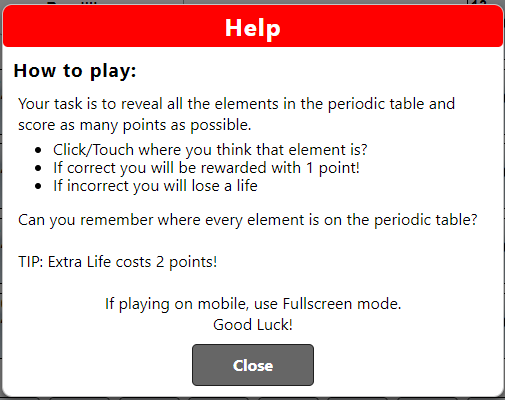
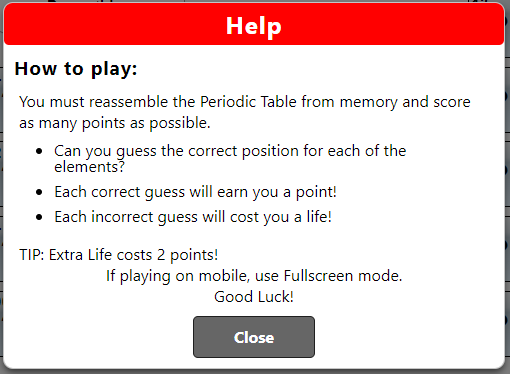
Help alert text & style changed

Changed region(s): [[0.0, 0.0, 1.0, 1.0]]

diff --git a/assets/js/script.js b/assets/js/script.js
@@ -358,14 +358,13 @@ function openHelp() {
     let helpText = `
     <h3>How to play:</h3>
 
-    <p>Your task is to reveal all the elements in the periodic table and score as many points as possible.</p>
+    <p>You must reassemble the Periodic Table from memory and score as many points as possible.</p>
     <ul>
-        <li>Click/Touch where you think that element belongs?</li><br>
-        <li>If you are correct you will be rewarded 1 point!</li><br>
-        <li>If you are incorrect you will lose a life.</li><br>
+        <li>Can you guess the correct position for each of the elements?</li><br>
+        <li>Each correct guess will earn you a point!</li><br>
+        <li>Each incorrect guess will cost you a life!</li><br>
     </ul>
-    <p>Can you remember where every element is on the periodic table?</p><br>
-    <p>TIP: Extra Life costs 2 points!</p><br>
+    <p>TIP: Extra Life costs 2 points!</p>
     If playing on mobile, use Fullscreen mode.<br>
     Good Luck!
     `;

diff --git a/assets/css/style.css b/assets/css/style.css
@@ -416,6 +416,10 @@ body {
     box-sizing: border-box;
 }
 
+.alert-box ul li {
+    line-height: 16px;
+}
+
 .alert-box > p {
     width: 100%;
     text-align: left;
